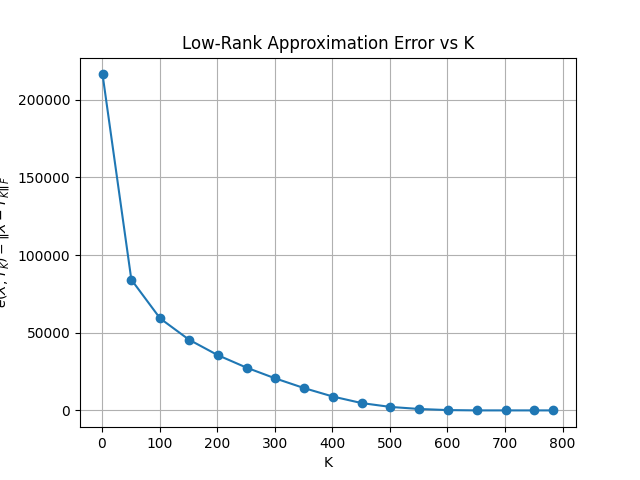
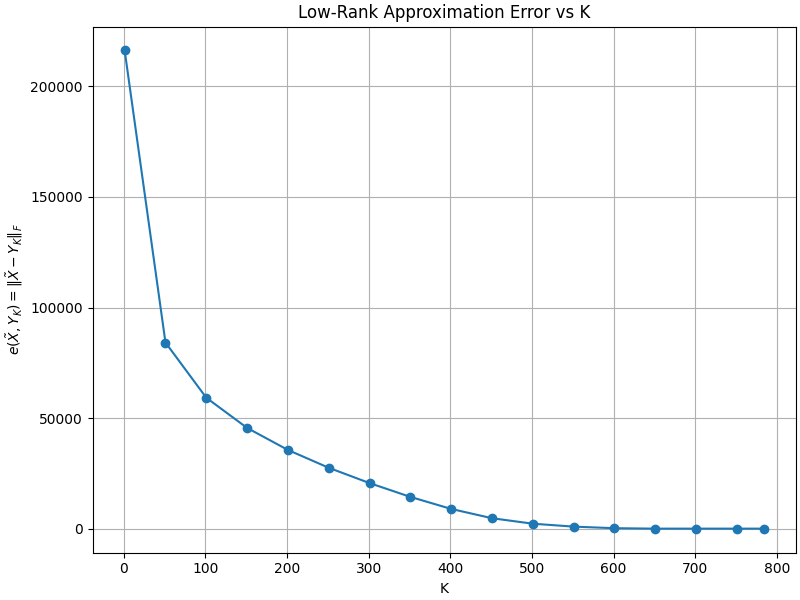
plot fix

diff --git a/Homework 1/problem3.py b/Homework 1/problem3.py
@@ -22,7 +22,7 @@ for K in K_set:
     print(f"K = {K:3d}   error = {e:.6f}")
 
 # ~~~~ Plotting Figure 3: e(X_tilde, Y_K) vs. K ~~~~
-plt.figure()
+plt.figure(figsize=(8,6), constrained_layout=True)
 plt.plot(list(errors.keys()), list(errors.values()), marker='o')
 plt.xlabel("K")
 plt.ylabel(r"$e(\tilde{X}, Y_K) = \|\tilde{X} - Y_K\|_F$")
